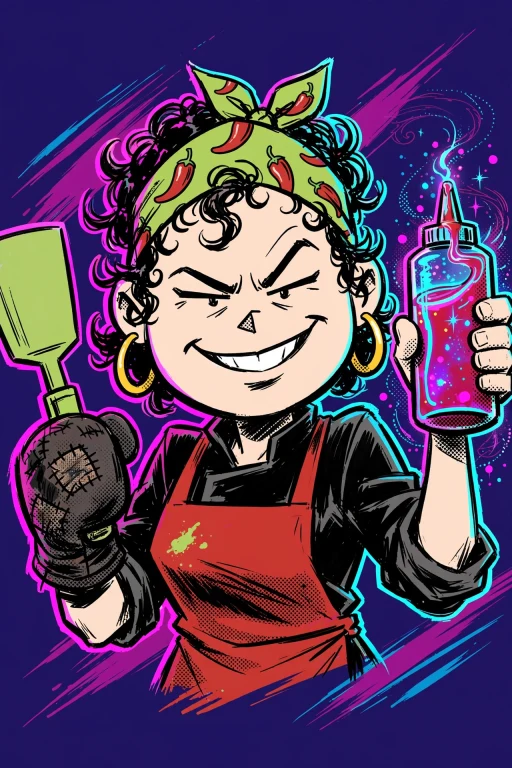
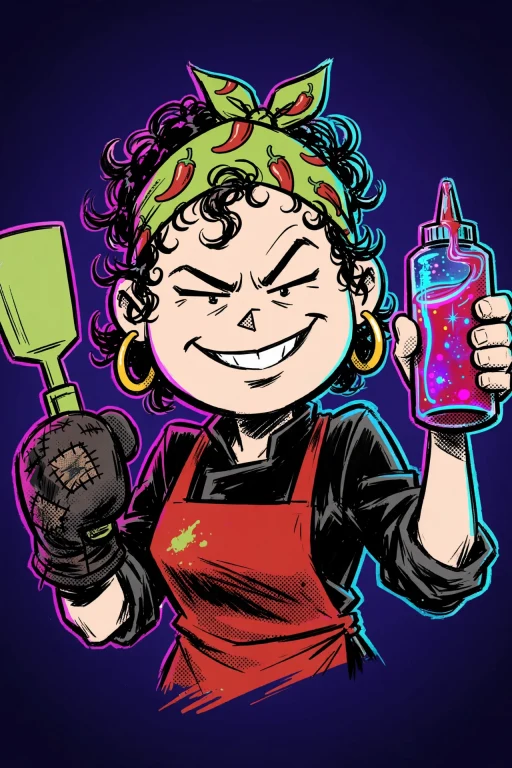
Heroes v2: all 18 portraits re-rendered on plain dark backgrounds (no neon streaks) via edits, characters unchanged; Big Walt's third eye removed; portrait composition string updated in design/31

diff --git a/design/31-house-style.md b/design/31-house-style.md
@@ -22,7 +22,7 @@ Hand-inked neon comic character design: clean, confident brush-ink linework with
 
 ### Portrait composition (replaces the "Composition: bust portrait ..." sentence inside `portraitPrompt`)
 ```
-Composition: bust portrait, head and shoulders fill the frame, face in the upper half, centered, strong readable silhouette with a bright magenta-cyan rim light, against a plain flat deep-indigo background with a few bold ink speed streaks; limited palette of the character's colors plus at most three neon accents; the face must read clearly as a tiny circular avatar.
+Composition: bust portrait, head and shoulders fill the frame, face in the upper half, centered, strong readable silhouette with a bright magenta-cyan rim light, against a plain, flat, solid dark deep-indigo background with a very subtle darker vignette and nothing else (no streaks, speed lines, swirls, sparkles or glow); limited palette of the character's colors plus at most three neon accents; the face must read clearly as a tiny circular avatar.
 ```
 
 ### COLOR (replaces `COLOR`; v2, no glow)
@@ -98,9 +98,9 @@ The review found the same glowing magenta/cyan swirl in every painting (the stro
   - bridge: Marisol, Nadia, Lou in Porter, IN (a bite out of the steel railing, the old bridge curled like a tail)
   - pumpkin: Tamika, The Great Sal, Lupe in Hysham, MT (the vines knit around the hay bales)
 - **Prompt lesson:** I wrote "top-left quarter calm and dark (a logo sits there)" and Muse painted small fake emblems in 5 of 6 corners. I patched them out locally with flat sky color. Never mention a logo, title or badge in an image prompt: say "the top-left quarter is plain dark sky".
-- **Known leftovers:** the 18 portraits still have magenta/cyan speed-streak backgrounds, a milder version of the same tell. Next portrait pass: "plain flat deep-indigo background, no streaks". Big Walt's supernatural tell came out as a small third eye on his forehead. Lobby lighting is mostly but not always single-source (the bulbs in pumpkin, the lantern in boulder).
+- **Round 4 (CD approved Neon Ink + heroes):** all 18 portraits re-rendered via `/images/edits` on the originals, with only the background changed to plain dark indigo (no streaks). Big Walt's third eye is removed. The characters are unchanged and the filenames are the same. Edit prompt: "Keep the character exactly identical ... Change ONLY the background: plain, flat, solid dark deep-indigo ... Keep only a thin clean rim light on the character's outline." PORTRAIT_COMPOSITION above now asks for the plain background, so new custom heroes match.
 - Contact sheets: `game/public/style-candidates/heroes-v2-contact.webp` (18), `lobby-v2-contact.webp`, `round3-contact.webp` (all three together).
 
 ## 5. Budget
 
-Round 1: 6 calls (A/B/C). Round 2: 2 (Neon Ink test) + 12 heroes + 2 re-rolls. Round 3: 2 scene tests + 6 heroes (+1 filtered, no image) + 6 lobby = 15. Total 37 Muse image calls.
+Round 1: 6 calls (A/B/C). Round 2: 2 (Neon Ink test) + 12 heroes + 2 re-rolls. Round 3: 2 scene tests + 6 heroes (+1 filtered, no image) + 6 lobby = 15. Round 4: 18 background edits. Total 55 Muse image calls.
